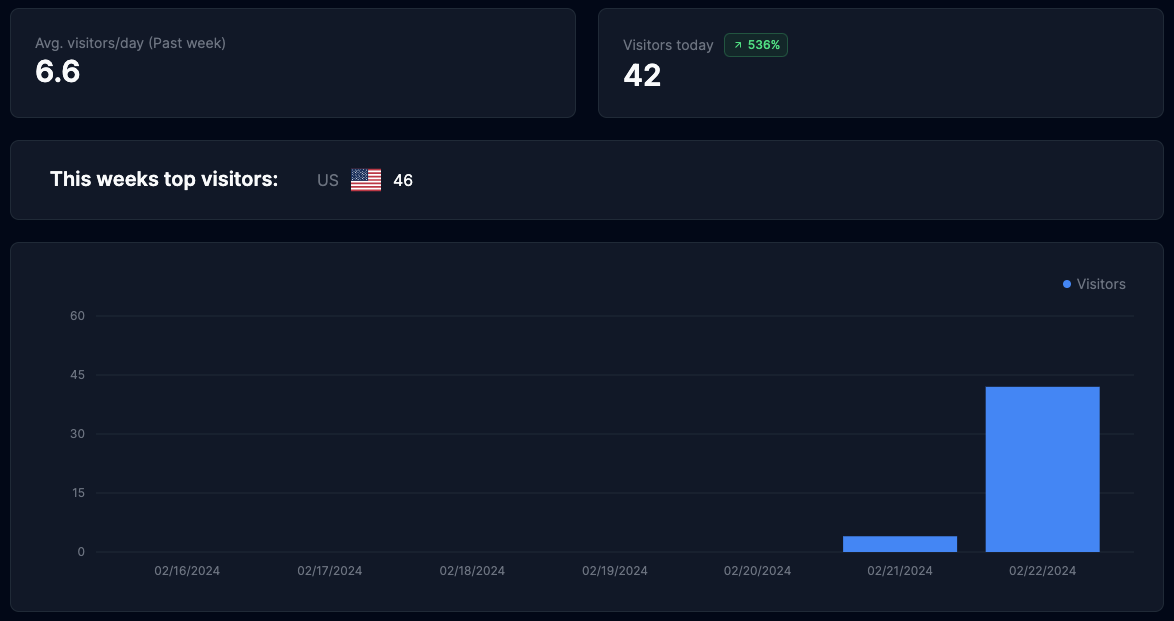
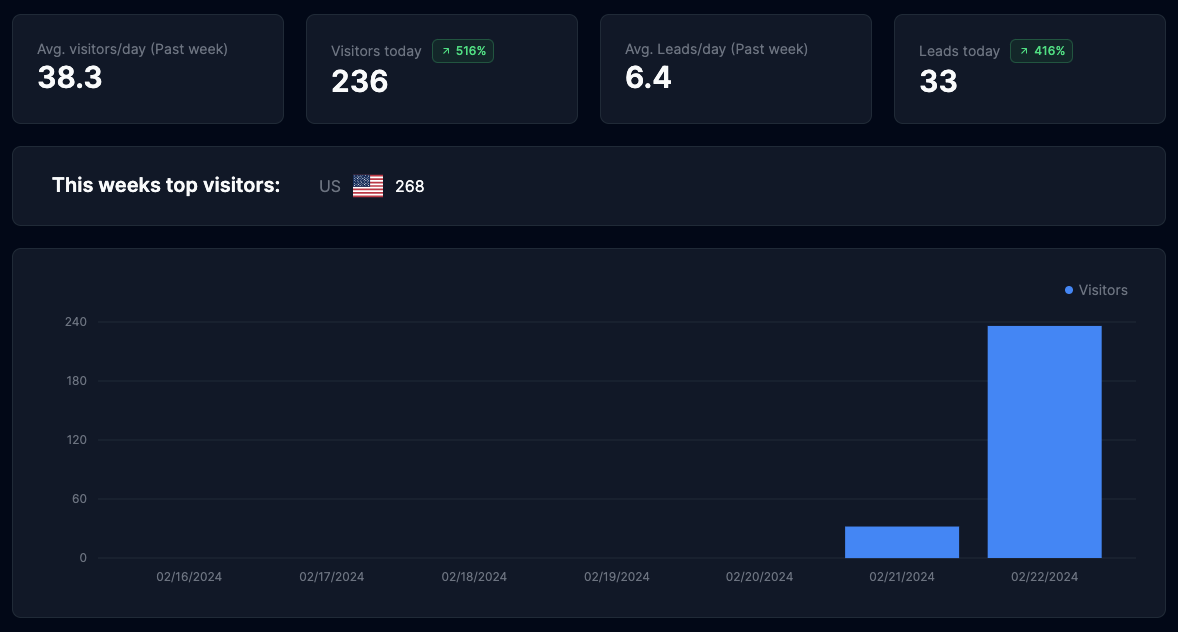
updated image assets, added readme

diff --git a/src/app/page.tsx b/src/app/page.tsx
@@ -55,14 +55,14 @@ export default function Home() {
 							</h3>
 						</div>
 					</div>
-					<div className="w-full flex justify-center items-center grow-0 sm:px-8 md:px-1">
+					<div className="w-full flex justify-center items-center grow-0 sm:px-8 md:px-6 lg:px-4">
 						<div className="relative rounded-lg overflow-hidden">
 							<Link href="/analytics">
 								<div className="cursor-pointer absolute inset-0 bg-gradient-to-br from-indigo-500 via-purple-500  from-indigo-300 z-0 opacity-20 hover:opacity-25 transition-opacity"></div>
 							</Link>
 							<Image
 								src="/analytics-demo.png"
-								width={865}
+								width={838}
 								height={450}
 								alt="showcase analytics dashboard"
 								quality={100}

diff --git a/README.md b/README.md
@@ -1,0 +1,36 @@
+<h1 align="center">
+Analytics Dashboard Demo
+</h1>
+
+<br>
+
+<div align="center">
+	<image src="https://img.shields.io/badge/Next-black?style=for-the-badge&logo=next.js&logoColor=white" alt="Next.js"/>
+    <image src="https://img.shields.io/badge/redis-%23DD0031.svg?style=for-the-badge&logo=redis&logoColor=white" alt="Redis"/>
+</div>
+
+<br>
+
+![alt text](/public/analytics-github.png 'Logo Title Text 1')
+
+<div align="center">
+	<p>Deployed at: <a href="https://analytics-dashboard-coral.vercel.app/">analytics-dashboard-coral.vercel.app</a></p>
+</div>
+
+<br>
+
+---
+
+<br>
+
+<h3 align="center">
+Introduction
+</h3>
+
+<br>
+
+This demo showcases an analytics dashboard that keeps track of the number of visitors that visit the [landing page](https://analytics-dashboard-coral.vercel.app/), along with the country they come from. This allows us to assess the trends in traffic to our site, and also allows further visualizations such as the top countries that contributed to the most traffic.
+
+<br>
+
+The [contact us](https://analytics-dashboard-coral.vercel.app/contact) page is a demo contact page that tracks how many leads we collect, which is also shown in the dashboard. This app does not currently store any information entered into the contact page, as it is a demo.
